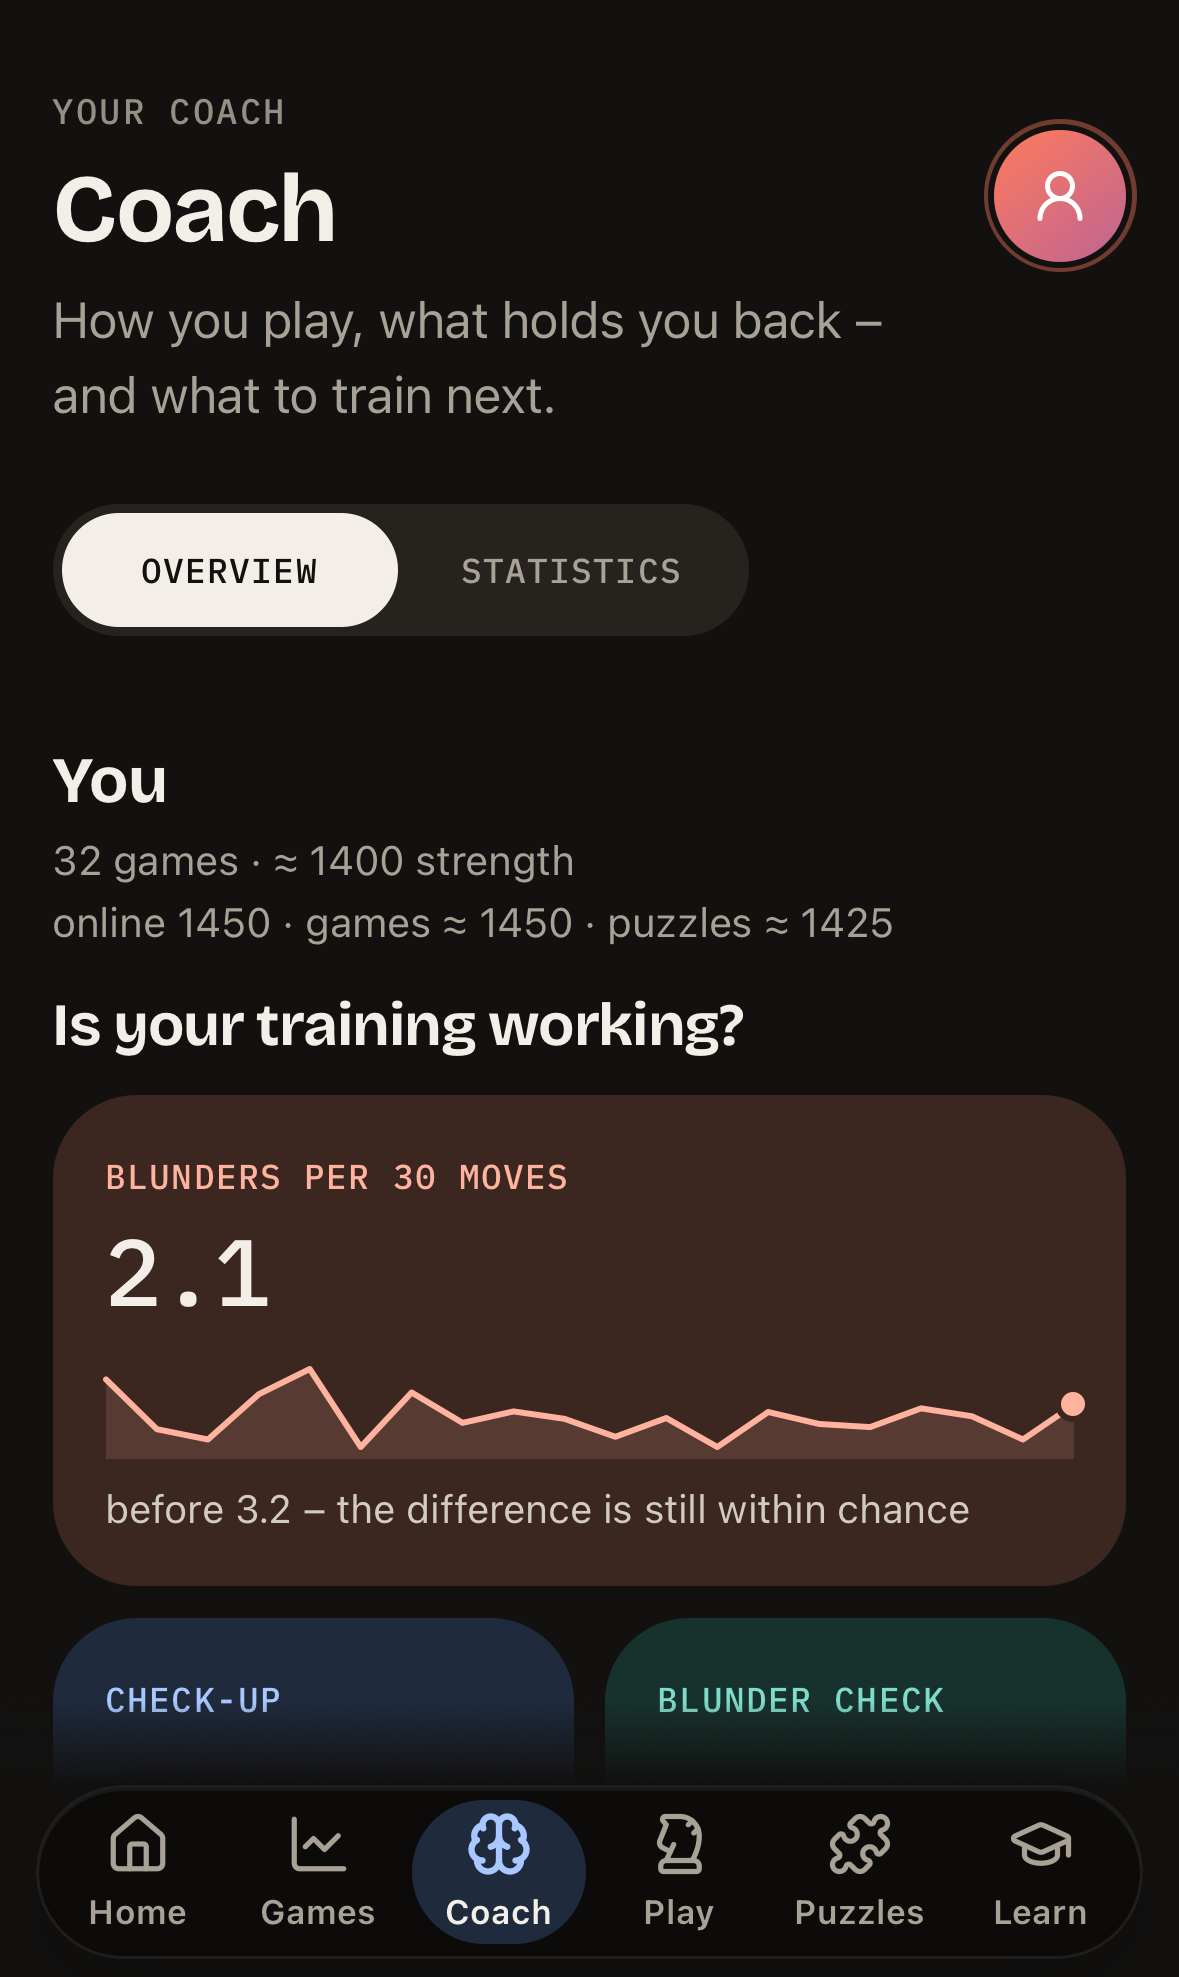
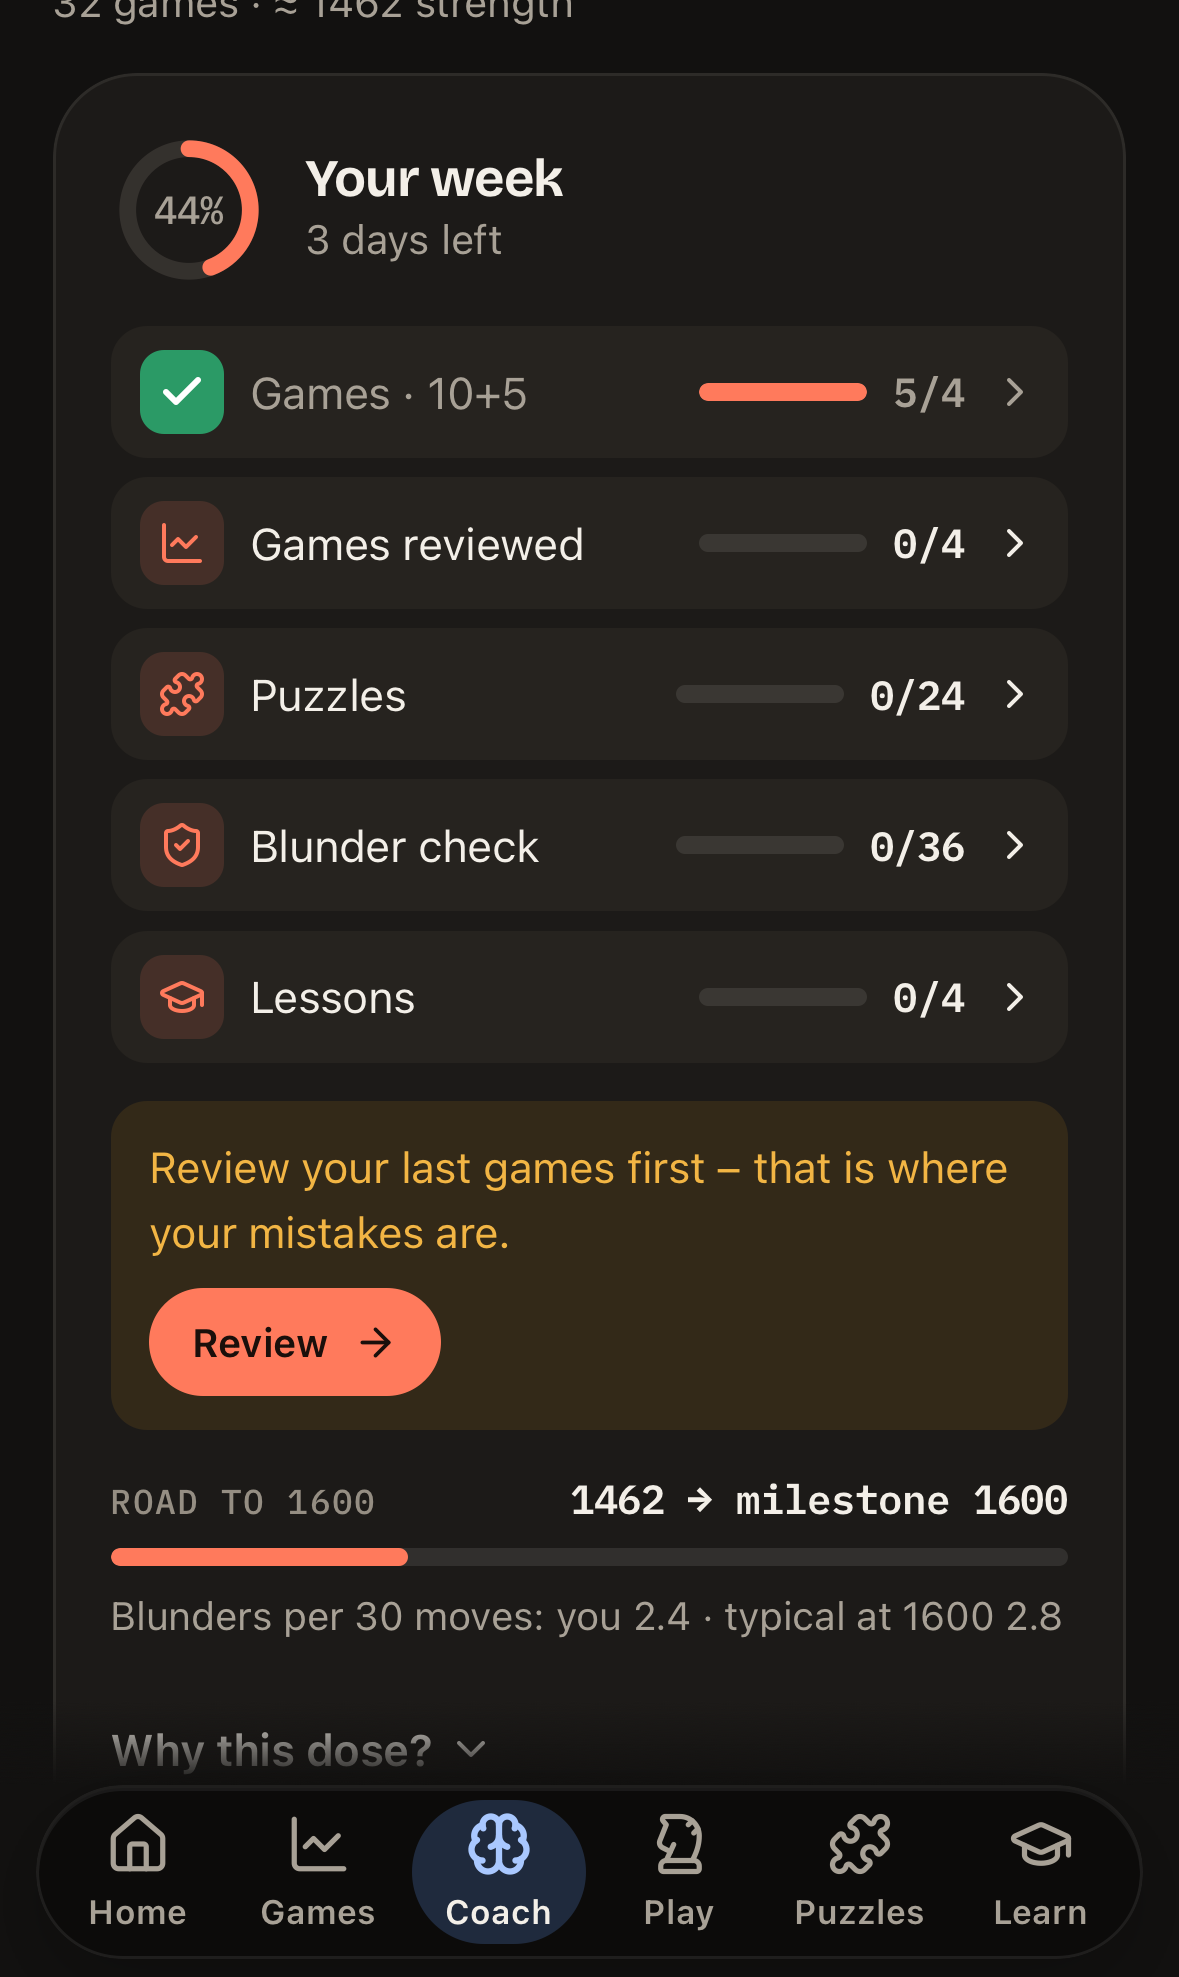
Rookie 0.8.0 – der Coach verordnet eine Wochendosis
README mit Neuerungen und neuen Bildern (Coach-Woche, Startseite), Version 0.8.0; Prozentring wird vorgelesen wie angezeigt.

diff --git a/src/lib/ui/GoalRing.svelte b/src/lib/ui/GoalRing.svelte
@@ -24,7 +24,7 @@
 		/>
 	</svg>
 	<span class="num">{label ?? `${value}/${max}`}</span>
-	<span class="sr-only">{value} / {max}</span>
+	<span class="sr-only">{label ?? `${value} / ${max}`}</span>
 </div>
 
 <style>

diff --git a/README.md b/README.md
@@ -2,21 +2,30 @@
 
 A chess trainer for beginners as a Progressive Web App for iPhone, iPad and Mac – completely free, offline-capable, no App Store, no account, no tracking. English and German.
 
-**Live:** https://rookie.maximilianauer.at · **Version:** 0.7.9
+**Live:** https://rookie.maximilianauer.at · **Version:** 0.8.0
 
-| Home                                                                                                                           | Coach                                                                                                                                             | Play                                                                                                   | Game review                                                                                                                                | Blunder check                                                                                            |
-| ------------------------------------------------------------------------------------------------------------------------------ | ------------------------------------------------------------------------------------------------------------------------------------------------- | ------------------------------------------------------------------------------------------------------ | ------------------------------------------------------------------------------------------------------------------------------------------ | -------------------------------------------------------------------------------------------------------- |
-| <img src="docs/screenshots/home-light.png" width="200" alt="Home: daily plan with blunder check, focus puzzles and time left"> | <img src="docs/screenshots/coach-light.png" width="200" alt="Coach tab: is your training working? Blunders per 30 moves, check-up and hit rates"> | <img src="docs/screenshots/play-light.png" width="200" alt="Playing a bot with the coach switched on"> | <img src="docs/screenshots/analysis-light.png" width="200" alt="Game review: each move classified and explained, with a game rating card"> | <img src="docs/screenshots/safety-light.png" width="200" alt="Blunder check: is the planned move safe?"> |
-| <img src="docs/screenshots/home-dark.png" width="200" alt="Home in dark mode">                                                 | <img src="docs/screenshots/coach-dark.png" width="200" alt="Coach tab in dark mode">                                                              | <img src="docs/screenshots/play-dark.png" width="200" alt="Play in dark mode">                         | <img src="docs/screenshots/analysis-dark.png" width="200" alt="Game review in dark mode">                                                  | <img src="docs/screenshots/safety-dark.png" width="200" alt="Blunder check in dark mode">                |
+| Home                                                                                                                           | Coach                                                                                                                                                                                     | Play                                                                                                   | Game review                                                                                                                                | Blunder check                                                                                            |
+| ------------------------------------------------------------------------------------------------------------------------------ | ----------------------------------------------------------------------------------------------------------------------------------------------------------------------------------------- | ------------------------------------------------------------------------------------------------------ | ------------------------------------------------------------------------------------------------------------------------------------------ | -------------------------------------------------------------------------------------------------------- |
+| <img src="docs/screenshots/home-light.png" width="200" alt="Home: daily plan with blunder check, focus puzzles and time left"> | <img src="docs/screenshots/coach-light.png" width="200" alt="Coach tab: your week – games, reviews, puzzles, blunder checks and lessons against the coach's dose, with the road to 1600"> | <img src="docs/screenshots/play-light.png" width="200" alt="Playing a bot with the coach switched on"> | <img src="docs/screenshots/analysis-light.png" width="200" alt="Game review: each move classified and explained, with a game rating card"> | <img src="docs/screenshots/safety-light.png" width="200" alt="Blunder check: is the planned move safe?"> |
+| <img src="docs/screenshots/home-dark.png" width="200" alt="Home in dark mode">                                                 | <img src="docs/screenshots/coach-dark.png" width="200" alt="Coach tab in dark mode">                                                                                                      | <img src="docs/screenshots/play-dark.png" width="200" alt="Play in dark mode">                         | <img src="docs/screenshots/analysis-dark.png" width="200" alt="Game review in dark mode">                                                  | <img src="docs/screenshots/safety-dark.png" width="200" alt="Blunder check in dark mode">                |
 
 **Desktop** (Mac, iPad landscape)
 
-| Light                                                                                                                                                                                     | Dark                                                                                                         |
-| ----------------------------------------------------------------------------------------------------------------------------------------------------------------------------------------- | ------------------------------------------------------------------------------------------------------------ |
-| <img src="docs/screenshots/desktop-home-light.png" width="420" alt="Home on desktop in light mode: sidebar, daily plan, daily goal, streak, puzzle rating, strength, form and stars">     | <img src="docs/screenshots/desktop-home-dark.png" width="420" alt="Home on desktop in dark mode">            |
-| <img src="docs/screenshots/desktop-analysis-light.png" width="420" alt="Game review on desktop in light mode: a mistake on the board, the engine's top moves and accuracy per move type"> | <img src="docs/screenshots/desktop-analysis-dark.png" width="420" alt="Game review on desktop in dark mode"> |
+| Light                                                                                                                                                                                        | Dark                                                                                                         |
+| -------------------------------------------------------------------------------------------------------------------------------------------------------------------------------------------- | ------------------------------------------------------------------------------------------------------------ |
+| <img src="docs/screenshots/desktop-home-light.png" width="420" alt="Home on desktop in light mode: sidebar, daily plan, this week's games, streak, puzzle rating, strength, form and stars"> | <img src="docs/screenshots/desktop-home-dark.png" width="420" alt="Home on desktop in dark mode">            |
+| <img src="docs/screenshots/desktop-analysis-light.png" width="420" alt="Game review on desktop in light mode: a mistake on the board, the engine's top moves and accuracy per move type">    | <img src="docs/screenshots/desktop-analysis-dark.png" width="420" alt="Game review on desktop in dark mode"> |
 
 Screenshots use generated sample data (`scripts/screenshots/`), not real games.
+
+## What's new in 0.8.0
+
+Rookie now prescribes a weekly dose instead of offering options – measured on 883 new Lichess players around 900 Rapid ([research](docs/research-2026-11-13.md#nachtrag-wie-viel-spielen-wie-viele-puzzles-aufstieg-neuer-lichess-spieler-20-november-2026), [review](docs/coach-review-2026-11-20.md), [plan](docs/coach-plan-2026-11-20.md)).
+
+- **Your week** in the Coach: games (10+5), reviews, puzzles, blunder checks and lessons for your time budget – 4 games a week from 30 minutes a day, up to 8. Players with fewer than 2 games a week hardly improved in a year; with 4–8 they gained +137 (median).
+- **The coach judges your progress:** too few games → play; games not reviewed → review first; rating flat for 6 weeks with many blunders → 15+10 and the blunder check; otherwise tactics.
+- **Road to 1600:** your next milestone and the blunder rate that is typical there – plus an honest note on how long it usually takes.
+- Puzzles every day, also on game days. "Continue learning" now matches the daily plan, with tactics lessons below 1400. One blunder number everywhere. At most two new mistake cards per game, so heavy players can keep up.
 
 ## What's new in 0.7.9
 
@@ -56,13 +65,14 @@ Rookie's goal: take beginners to **1600** – with methods that learning researc
 - **Board scan** – see checks, captures and hanging pieces in seconds, for you and your opponent (CCA), on real positions; daily in the plan below 1200
 - **Positional play** – five lessons with Stockfish-checked tasks: active pieces and outposts, open files, passed pawns, king safety, pawn structure
 - **Blunder check** – “You want to play ♘c4. Is it safe?” Real moments from Lichess games (the move a human actually blundered with, or a Stockfish-verified safe move); say “not safe” and you have to show the refutation on the board. Below 1000, over half of all blunders are pieces or mates lost within two moves – this trains exactly that
-- **Daily plan with a time budget** (30 min by default) – blunder check, your own mistakes due for review, mixed tactics, a rated Rapid game when there is a suitable time block, then theory only if it fits and matches your level; shows how many minutes are left
+- **Your week** – the coach's dose for your level and time budget: games per week (10+5), reviews, puzzles, blunder checks and lessons, with progress, a verdict when your rating stalls and an honest road to 1600. Based on 883 new Lichess players: fewer than 2 games a week hardly helped, 4–8 gained +137 in a year (median), many puzzles went with faster progress
+- **Daily plan with a time budget** (30 min by default) – blunder check, your own mistakes due for review, puzzles every day, your week's games spread evenly, then the next lesson for your level (rules → tactics below 1400 → positional play, endgames, openings); shows how many minutes are left
 - **You first** – in the game review you can first mark up to three moves you think were mistakes (no engine ratings shown), then Stockfish reveals what you found, missed or got right, and you replay the mistakes; “mistakes spotted” becomes a progress metric
 - **Chance!** – in your first guided games the coach points out when your opponent just blundered (beginners leave about half of them unpunished)
 - **Your mistakes come back** – every blunder from your games (bot games are analysed automatically in the background) returns as a task after 1, 3, 8 and 22 days until it sticks
 - **Puzzles at the right difficulty** – aimed at ~80 % success instead of 50 %, adjusted to your recent results; a hint counts half; the plan's focus is mixed with other themes
 - **Coach that steps back** – warns about threats until recent unaided exercises show consistent results, then asks “what is your opponent up to?” (you can still ask for help). The coach comments as the game continues, and you can take back a move during play. Wins with takebacks or hints don't count towards your strength
-- **Is your training working?** – blunders per 30 moves (last 10 games vs the 10 before, with an honest “still within chance”), a safety check-up every two weeks (fixed tasks, two alternating forms) and hit rates in training
+- **Is your training working?** (Coach → Statistics) – blunders per 30 moves (last 10 games vs the 10 before, with an honest “still within chance”), a safety check-up every two weeks (fixed tasks, two alternating forms) and hit rates in training
 - **Game rating** – for each game: accuracy and the level it is typical of, how good the game was for players of your strength (percentile), accuracy per phase, the turning point, chances taken or missed and one lesson to practise. No fake “performance Elo” – measured on 1,440 Lichess games, a single game's accuracy barely predicts rating (R² = 0.14)
 - **Fair move ratings** – if two moves were practically equal, yours isn't a mistake; small slips in decided positions don't count; good moves get “just as strong: …” instead of “even stronger was …”
 - **Play** against 8 bots with personality (≈ 400–1650) – Stockfish 19 (WebAssembly) in the browser, hints, takebacks, optional clock, and one premove while the bot is thinking. Premoves play automatically if legal after the reply. Tap the premove label, right-click the board, or press Esc to clear it
